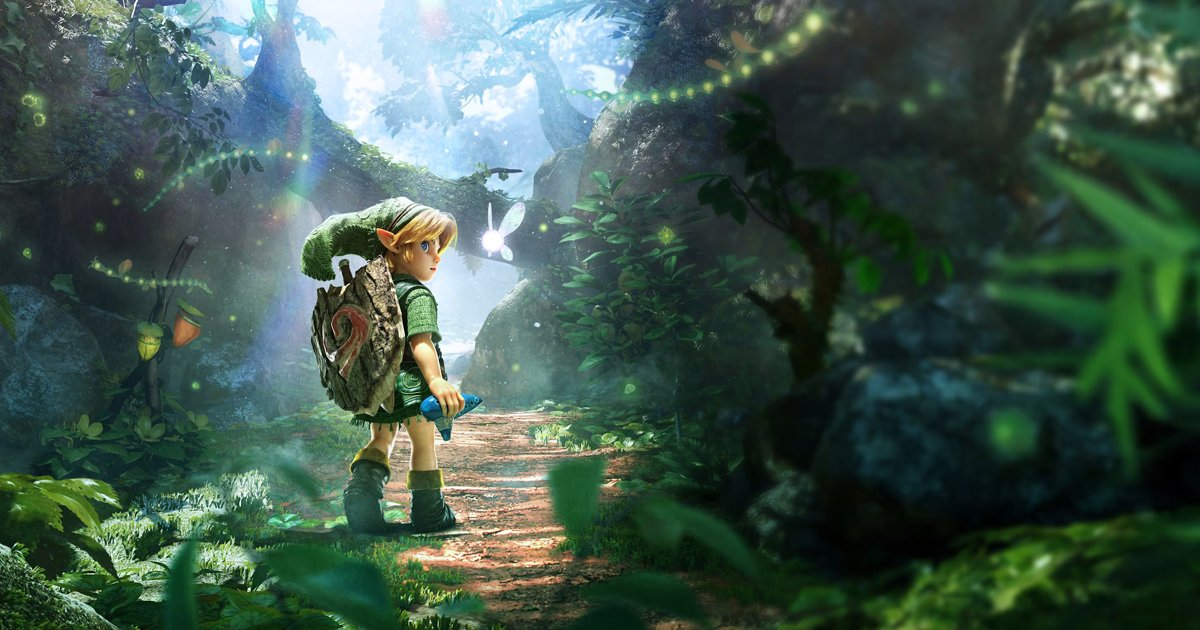
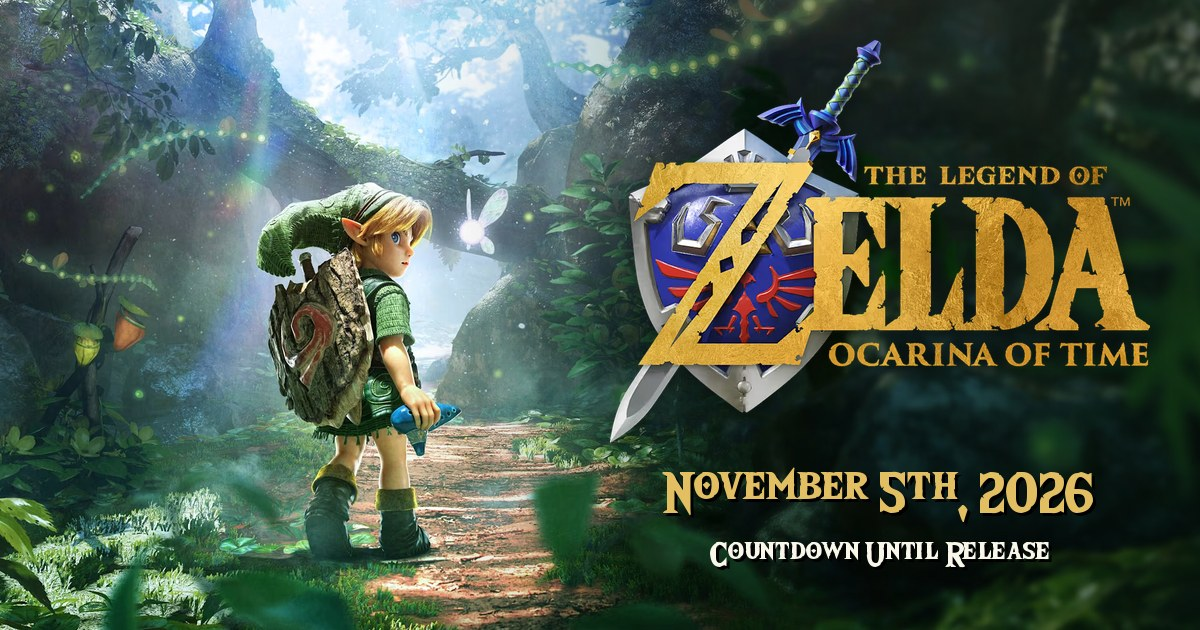
Fixed link preview

diff --git a/index.html b/index.html
@@ -15,19 +15,19 @@
     <meta name="description" content="Ocarina of Time Countdown">
 
     <!-- Facebook Meta Tags -->
-    <meta property="og:url" content="https://alextirgard00n.github.io/oot-countdown/">
+    <meta property="og:url" content="https://alextirgard00n.github.io/OOT-Countdown/">
     <meta property="og:type" content="website">
     <meta property="og:title" content="OoT Countdown">
     <meta property="og:description" content="Ocarina of Time Countdown">
-    <meta property="og:image" content="https://alextirgard00n.github.io/oot-countdown/media/og-img.jpg">
+    <meta property="og:image" content="https://alextirgard00n.github.io/OOT-Countdown/media/og-img.jpg">
 
     <!-- Twitter Meta Tags -->
     <meta name="twitter:card" content="summary_large_image">
     <meta property="twitter:domain" content="alextirgard00n.github.io">
-    <meta property="twitter:url" content="https://alextirgard00n.github.io/oot-countdown/">
+    <meta property="twitter:url" content="https://alextirgard00n.github.io/OOT-Countdown/">
     <meta name="twitter:title" content="OoT Countdown">
     <meta name="twitter:description" content="Ocarina of Time Countdown">
-    <meta name="twitter:image" content="https://alextirgard00n.github.io/oot-countdown/media/og-img.jpg">
+    <meta name="twitter:image" content="https://alextirgard00n.github.io/OOT-Countdown/media/og-img.jpg">
 </head>
 
 <body>
